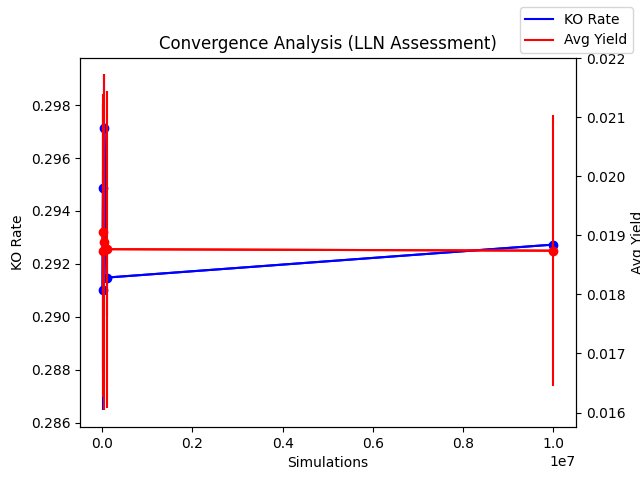
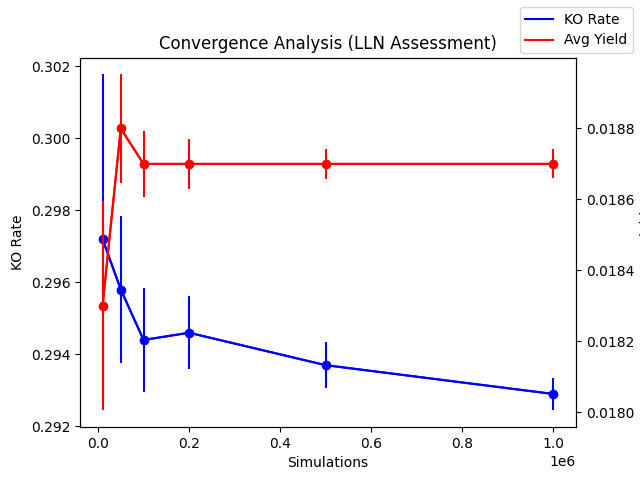
Add files via upload

diff --git a/rainbow.py b/rainbow.py
@@ -5,6 +5,7 @@ from scipy.linalg import cholesky
 import openpyxl
 import io
 import matplotlib.pyplot as plt
+from concurrent.futures import ThreadPoolExecutor
 
 # Step 1: Load and preprocess data
 with open("databank.xlsx", "rb") as file:
@@ -27,9 +28,34 @@ def garch_forecast(returns, horizon=57, window=252):
         forecasts.append(np.sqrt(forecast.variance.values[-1, :]))
     return np.mean(forecasts, axis=0)  # Average forecast over rolling windows
 
-vol_hs300 = garch_forecast(log_returns['HS300'])
-vol_sz50 = garch_forecast(log_returns['SZ50'])
-vol_zz500 = garch_forecast(log_returns['ZZ500'])
+# Optimize GARCH forecasting with multithreading
+def garch_forecast_multithreaded(returns, horizon=57, window=252):
+    model = arch_model(returns, vol='Garch', p=1, q=1, dist='Normal', rescale=False)
+
+    def forecast_chunk(start, end):
+        chunk_forecasts = []
+        for i in range(start, end):
+            train_data = returns.iloc[i-window:i]
+            model_fit = model.fit(disp='off')
+            forecast = model_fit.forecast(horizon=horizon)
+            chunk_forecasts.append(np.sqrt(forecast.variance.values[-1, :]))
+        return chunk_forecasts
+
+    forecasts = []
+    chunk_size = (len(returns) - window) // 8  # Divide into 8 threads
+    with ThreadPoolExecutor(max_workers=8) as executor:
+        futures = [
+            executor.submit(forecast_chunk, i * chunk_size, (i + 1) * chunk_size)
+            for i in range(8)
+        ]
+        for future in futures:
+            forecasts.extend(future.result())
+
+    return np.mean(forecasts, axis=0)  # Average forecast over rolling windows
+
+vol_hs300 = garch_forecast_multithreaded(log_returns['HS300'])
+vol_sz50 = garch_forecast_multithreaded(log_returns['SZ50'])
+vol_zz500 = garch_forecast_multithreaded(log_returns['ZZ500'])
 
 # Save GARCH forecast results to Excel
 forecast_data = {
@@ -48,12 +74,14 @@ print(corr_matrix)
 # Step 3: Cholesky decomposition
 L = cholesky(corr_matrix, lower=True)
 
-# Define Monte Carlo simulation function for reusability
-def run_monte_carlo(n_simulations, n_days, initial_prices, vol_hs300, vol_sz50, vol_zz500, L, scale_factor=1.0):
+# Define Monte Carlo simulation function with multithreading
+
+# Ensure the function returns all expected values
+def run_monte_carlo_multithreaded(n_simulations, n_days, initial_prices, vol_hs300, vol_sz50, vol_zz500, L, scale_factor=1.0, plot_paths=False):
     vol_hs300_scaled = vol_hs300 * scale_factor
     vol_sz50_scaled = vol_sz50 * scale_factor
     vol_zz500_scaled = vol_zz500 * scale_factor
-    
+
     simulated_paths = {
         'HS300': np.zeros((n_simulations, n_days + 1)),
         'SZ50': np.zeros((n_simulations, n_days + 1)),
@@ -63,19 +91,72 @@ def run_monte_carlo(n_simulations, n_days, initial_prices, vol_hs300, vol_sz50, 
     simulated_paths['SZ50'][:, 0] = initial_prices[1]
     simulated_paths['ZZ500'][:, 0] = initial_prices[2]
 
-    for t in range(1, n_days + 1):
-        Z = np.random.normal(0, 1, (n_simulations, 3))
-        correlated_Z = Z @ L.T  # Note: Use L.T for upper if needed, but cholesky lower=True
-        log_ret = np.zeros((n_simulations, 3))
-        log_ret[:, 0] = correlated_Z[:, 0] * vol_hs300_scaled[t-1]
-        log_ret[:, 1] = correlated_Z[:, 1] * vol_sz50_scaled[t-1]
-        log_ret[:, 2] = correlated_Z[:, 2] * vol_zz500_scaled[t-1]
-        daily_ret = np.exp(log_ret)
-        log_ret = np.where(daily_ret > 1.1, np.log(1.1), log_ret)
-        log_ret = np.where(daily_ret < 0.9, np.log(0.9), log_ret)
-        simulated_paths['HS300'][:, t] = simulated_paths['HS300'][:, t-1] * np.exp(log_ret[:, 0])
-        simulated_paths['SZ50'][:, t] = simulated_paths['SZ50'][:, t-1] * np.exp(log_ret[:, 1])
-        simulated_paths['ZZ500'][:, t] = simulated_paths['ZZ500'][:, t-1] * np.exp(log_ret[:, 2])
+    def simulate_chunk(start, end):
+        for t in range(1, n_days + 1):
+            Z = np.random.normal(0, 1, (end - start, 3))
+            correlated_Z = Z @ L.T
+            log_ret = np.zeros((end - start, 3))
+            log_ret[:, 0] = correlated_Z[:, 0] * vol_hs300_scaled[t-1]
+            log_ret[:, 1] = correlated_Z[:, 1] * vol_sz50_scaled[t-1]
+            log_ret[:, 2] = correlated_Z[:, 2] * vol_zz500_scaled[t-1]
+            daily_ret = np.exp(log_ret)
+            log_ret = np.where(daily_ret > 1.1, np.log(1.1), log_ret)
+            log_ret = np.where(daily_ret < 0.9, np.log(0.9), log_ret)
+            simulated_paths['HS300'][start:end, t] = simulated_paths['HS300'][start:end, t-1] * np.exp(log_ret[:, 0])
+            simulated_paths['SZ50'][start:end, t] = simulated_paths['SZ50'][start:end, t-1] * np.exp(log_ret[:, 1])
+            simulated_paths['ZZ500'][start:end, t] = simulated_paths['ZZ500'][start:end, t-1] * np.exp(log_ret[:, 2])
+
+    chunk_size = n_simulations // 8  # Divide into 8 threads
+    with ThreadPoolExecutor(max_workers=8) as executor:
+        futures = [
+            executor.submit(simulate_chunk, i * chunk_size, (i + 1) * chunk_size)
+            for i in range(8)
+        ]
+        for future in futures:
+            future.result()
+
+    # Plot paths if requested
+    if plot_paths:
+        fig, axes = plt.subplots(3, 1, figsize=(12,36))
+        num_paths_to_plot = min(100000, n_simulations)
+
+        # Plot HS300
+        for i in range(num_paths_to_plot):
+            axes[0].plot(simulated_paths['HS300'][i], color='blue', alpha=0.05)
+        axes[0].axhline(y=initial_prices[0], color='black', linestyle='--', label='Initial Price')
+        axes[0].axhline(y=initial_prices[0]*1.12, color='red', linestyle='--', label='Knock-out Threshold')
+        axes[0].grid(True, alpha=0.3)
+        axes[0].set_title('Simulated Paths - HS300 (Sample of 100000 paths)')
+        axes[0].set_xlabel('Days')
+        axes[0].set_ylabel('Index Level')
+        axes[0].legend()
+
+        # Plot SZ50
+        for i in range(num_paths_to_plot):
+            axes[1].plot(simulated_paths['SZ50'][i], color='green', alpha=0.05)
+        axes[1].axhline(y=initial_prices[1], color='black', linestyle='--', label='Initial Price')
+        axes[1].axhline(y=initial_prices[1]*1.12, color='red', linestyle='--', label='Knock-out Threshold')
+        axes[1].grid(True, alpha=0.3)
+        axes[1].set_title('Simulated Paths - SZ50 (Sample of 100000 paths)')
+        axes[1].set_xlabel('Days')
+        axes[1].set_ylabel('Index Level')
+        axes[1].legend()
+
+        # Plot ZZ500
+        for i in range(num_paths_to_plot):
+            axes[2].plot(simulated_paths['ZZ500'][i], color='orange', alpha=0.05)
+        axes[2].axhline(y=initial_prices[2], color='black', linestyle='--', label='Initial Price')
+        axes[2].axhline(y=initial_prices[2]*1.12, color='red', linestyle='--', label='Knock-out Threshold')
+        axes[2].grid(True, alpha=0.3)
+        axes[2].set_title('Simulated Paths - ZZ500 (Sample of 100000 paths)')
+        axes[2].set_xlabel('Days')
+        axes[2].set_ylabel('Index Level')
+        axes[2].legend()
+
+        plt.tight_layout()
+        plt.savefig('simulated_paths.png', dpi=300)
+        plt.close()
+        print("Simulated paths visualization saved as 'simulated_paths.png'.")
 
     # Knock-out events
     knock_out = np.zeros(n_simulations, dtype=bool)
@@ -108,30 +189,69 @@ def run_monte_carlo(n_simulations, n_days, initial_prices, vol_hs300, vol_sz50, 
 
     return knock_out_rate, mean_final_yield, avg_yield, final_yield
 
+# Replace original functions with optimized versions
+vol_hs300 = garch_forecast_multithreaded(log_returns['HS300'])
+vol_sz50 = garch_forecast_multithreaded(log_returns['SZ50'])
+vol_zz500 = garch_forecast_multithreaded(log_returns['ZZ500'])
+
+# Save GARCH forecast results to Excel
+forecast_data = {
+    'HS300': vol_hs300,
+    'SZ50': vol_sz50,
+    'ZZ500': vol_zz500
+}
+forecast_df = pd.DataFrame(forecast_data)
+forecast_df.to_excel('garch_forecast_results.xlsx', index=False)
+
+# Step 2: Compute correlation matrix
+corr_matrix = log_returns.corr()
+print("Correlation Matrix:")
+print(corr_matrix)
+
+# Step 3: Cholesky decomposition
+L = cholesky(corr_matrix, lower=True)
+
 # Parameters
 n_days = 57
 initial_prices = df.iloc[-1][['HS300', 'SZ50', 'ZZ500']].values
-base_n_sim = 1000000
+base_n_sim = 100000
 
-# Step 4: Base simulation (original)
-base_knock_out_rate, base_mean_final_yield, base_avg_yield, base_final_yield = run_monte_carlo(
-    base_n_sim, n_days, initial_prices, vol_hs300, vol_sz50, vol_zz500, L
-)
+# Store simulation results in a dictionary for reuse
+simulation_results = {}
+
+def get_or_run_simulation(n_sim, n_days, initial_prices, vol_hs300, vol_sz50, vol_zz500, L, scale_factor=1.0, plot_paths=False):
+    """Run simulation if not cached, otherwise return cached results"""
+    key = (n_sim, scale_factor)
+    if key not in simulation_results:
+        results = run_monte_carlo_multithreaded(n_sim, n_days, initial_prices, 
+                                              vol_hs300, vol_sz50, vol_zz500, L, 
+                                              scale_factor=scale_factor, 
+                                              plot_paths=plot_paths)
+        simulation_results[key] = results
+    return simulation_results[key]
+
+# Step 4: Base simulation
+print("Running base simulation...")
+base_results = get_or_run_simulation(base_n_sim, n_days, initial_prices, 
+                                   vol_hs300, vol_sz50, vol_zz500, L, 
+                                   plot_paths=True)
+base_knock_out_rate, base_mean_final_yield, base_avg_yield, base_final_yield = base_results
+
 print(f"Base Knock-out rate: {base_knock_out_rate*100:.2f}%")
 print(f"Base Average final yield (non-knock-out): {base_mean_final_yield*100:.2f}%")
 print(f"Base Overall average yield: {base_avg_yield*100:.2f}%")
 
-# Plot sample paths (original)
-# ... (keep original plotting code)
-
 # Step 8: Result Analysis - Vega Sensitivity
+print("Calculating Vega sensitivity...")
 scale_factors = [0.7, 0.75, 0.8, 0.85, 0.9, 0.95, 1.0, 1.05, 1.1, 1.15, 1.2, 1.25, 1.3]
 vega_results = []
 base_sigma = np.mean([np.mean(vol_hs300), np.mean(vol_sz50), np.mean(vol_zz500)])
 for k in scale_factors:
-    _, _, avg_yield, _ = run_monte_carlo(base_n_sim, n_days, initial_prices, vol_hs300, vol_sz50, vol_zz500, L, k)
+    _, _, avg_yield, _ = get_or_run_simulation(base_n_sim, n_days, initial_prices, 
+                                             vol_hs300, vol_sz50, vol_zz500, L, k)
     vega = (avg_yield - base_avg_yield) / ((k - 1) * base_sigma) if k != 1 else 0
     vega_results.append({'Scale': k, 'Avg Yield': avg_yield, 'Vega': vega})
+
 vega_df = pd.DataFrame(vega_results)
 vega_df.to_excel('vega_sensitivity.xlsx', index=False)
 print("Vega Sensitivity Results:")
@@ -147,15 +267,36 @@ plt.savefig('vega_plot.png')
 plt.close()
 
 # Step 9: Result Analysis - Convergence
-sim_counts = [10000, 20000, 50000, 100000, 1000000]
+print("Analyzing convergence...")
+sim_counts = [10000, 50000, 100000, 200000, 500000, 1000000]
 conv_results = []
+
 for n in sim_counts:
-    knock_out_rate, mean_final_yield, avg_yield, _ = run_monte_carlo(
+    # Run simulation if needed
+    knock_out_rate, mean_final_yield, avg_yield, final_yield = get_or_run_simulation(
         n, n_days, initial_prices, vol_hs300, vol_sz50, vol_zz500, L
     )
-    std_err_ko = np.sqrt(knock_out_rate * (1 - knock_out_rate) / n)  # Binomial std err for KO rate
-    std_err_yield = np.std([run_monte_carlo(1, n_days, initial_prices, vol_hs300, vol_sz50, vol_zz500, L)[2] for _ in range(100)]) / np.sqrt(100)  # Bootstrap std err for yield
-    conv_results.append({'N': n, 'KO Rate': knock_out_rate, 'Avg Yield': avg_yield, 'Std Err KO': std_err_ko, 'Std Err Yield': std_err_yield})
+    
+    # Calculate standard errors
+    std_err_ko = np.sqrt(knock_out_rate * (1 - knock_out_rate) / n)
+    
+    # For yield std error, use batching of existing results
+    batch_size = max(n // 100, 1)
+    batch_yields = []
+    for i in range(0, len(final_yield), batch_size):
+        batch_end = min(i + batch_size, len(final_yield))
+        batch_mean = np.mean(final_yield[i:batch_end]) if len(final_yield[i:batch_end]) > 0 else 0
+        batch_yields.append(batch_mean)
+    
+    std_err_yield = np.std(batch_yields) / np.sqrt(len(batch_yields)) if batch_yields else 0
+    conv_results.append({
+        'N': n, 
+        'KO Rate': knock_out_rate, 
+        'Avg Yield': avg_yield, 
+        'Std Err KO': std_err_ko, 
+        'Std Err Yield': std_err_yield
+    })
+
 conv_df = pd.DataFrame(conv_results)
 conv_df.to_excel('convergence_analysis.xlsx', index=False)
 print("Convergence Results:")
